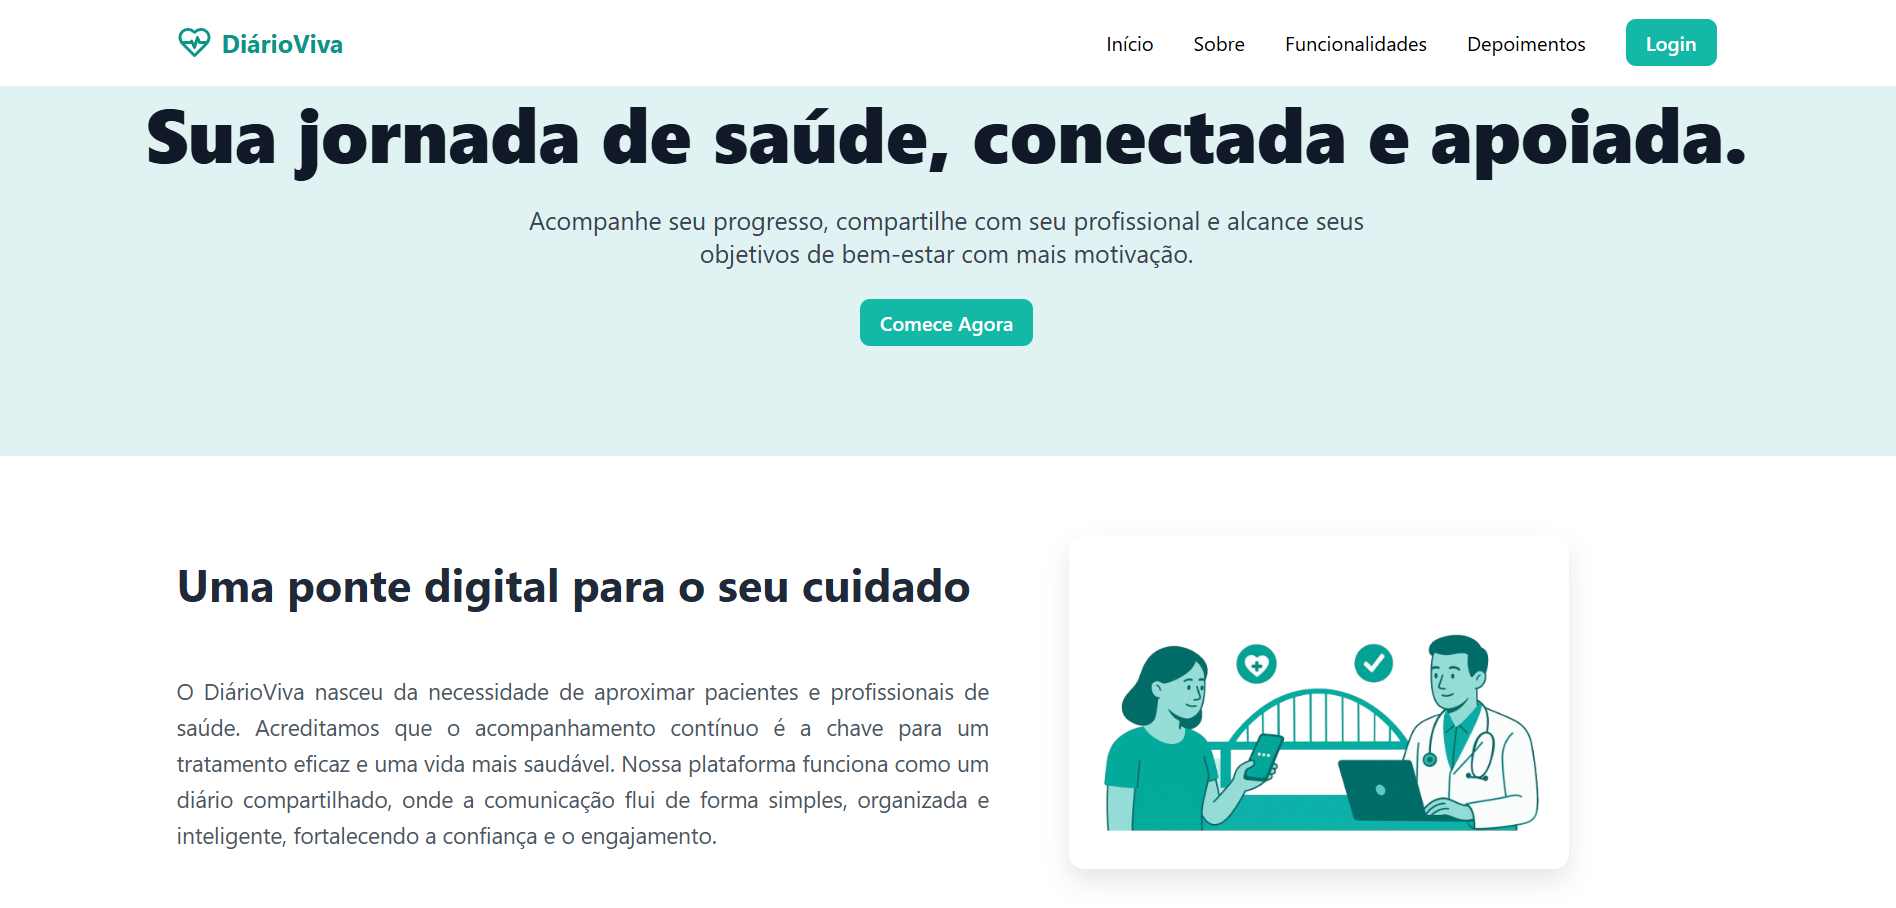
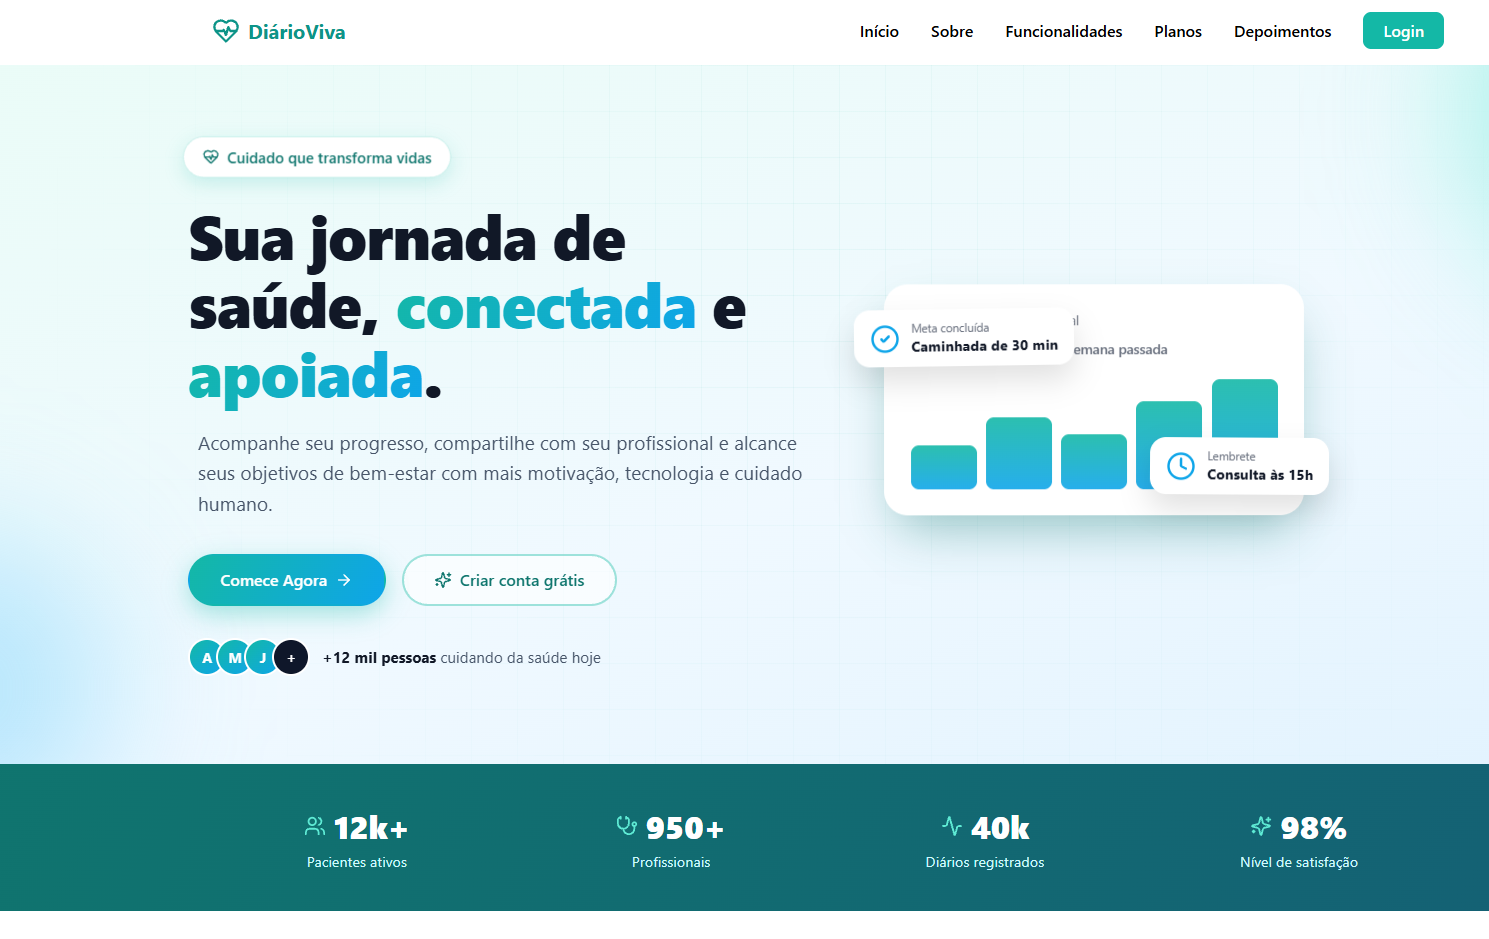
feat: Atualização da Imagem

diff --git a/script.js b/script.js
@@ -1,10 +1,8 @@
-// Marca que JS está ativo (evita esconder conteúdo quando JS está desligado)
+
 document.documentElement.classList.add('js');
 
 document.addEventListener('DOMContentLoaded', () => {
-  /* =========================================================
-     DICIONÁRIO DE TRADUÇÕES (mantido igual ao original)
-     ========================================================= */
+
   const translations = {
     pt: {
       page_title: "Portfólio | Raquel Martins",
@@ -58,7 +56,7 @@ document.addEventListener('DOMContentLoaded', () => {
   };
 
   /* =========================================================
-     TEMA CLARO / ESCURO
+      TEMA CLARO / ESCURO
      ========================================================= */
   const themeSwitcher = document.getElementById('checkbox');
   const currentTheme = localStorage.getItem('theme');
@@ -81,7 +79,7 @@ document.addEventListener('DOMContentLoaded', () => {
   });
 
   /* =========================================================
-     IDIOMA PT / EN
+      IDIOMA PT / EN
      ========================================================= */
   const langPtBtn = document.getElementById('lang-pt');
   const langEnBtn = document.getElementById('lang-en');
